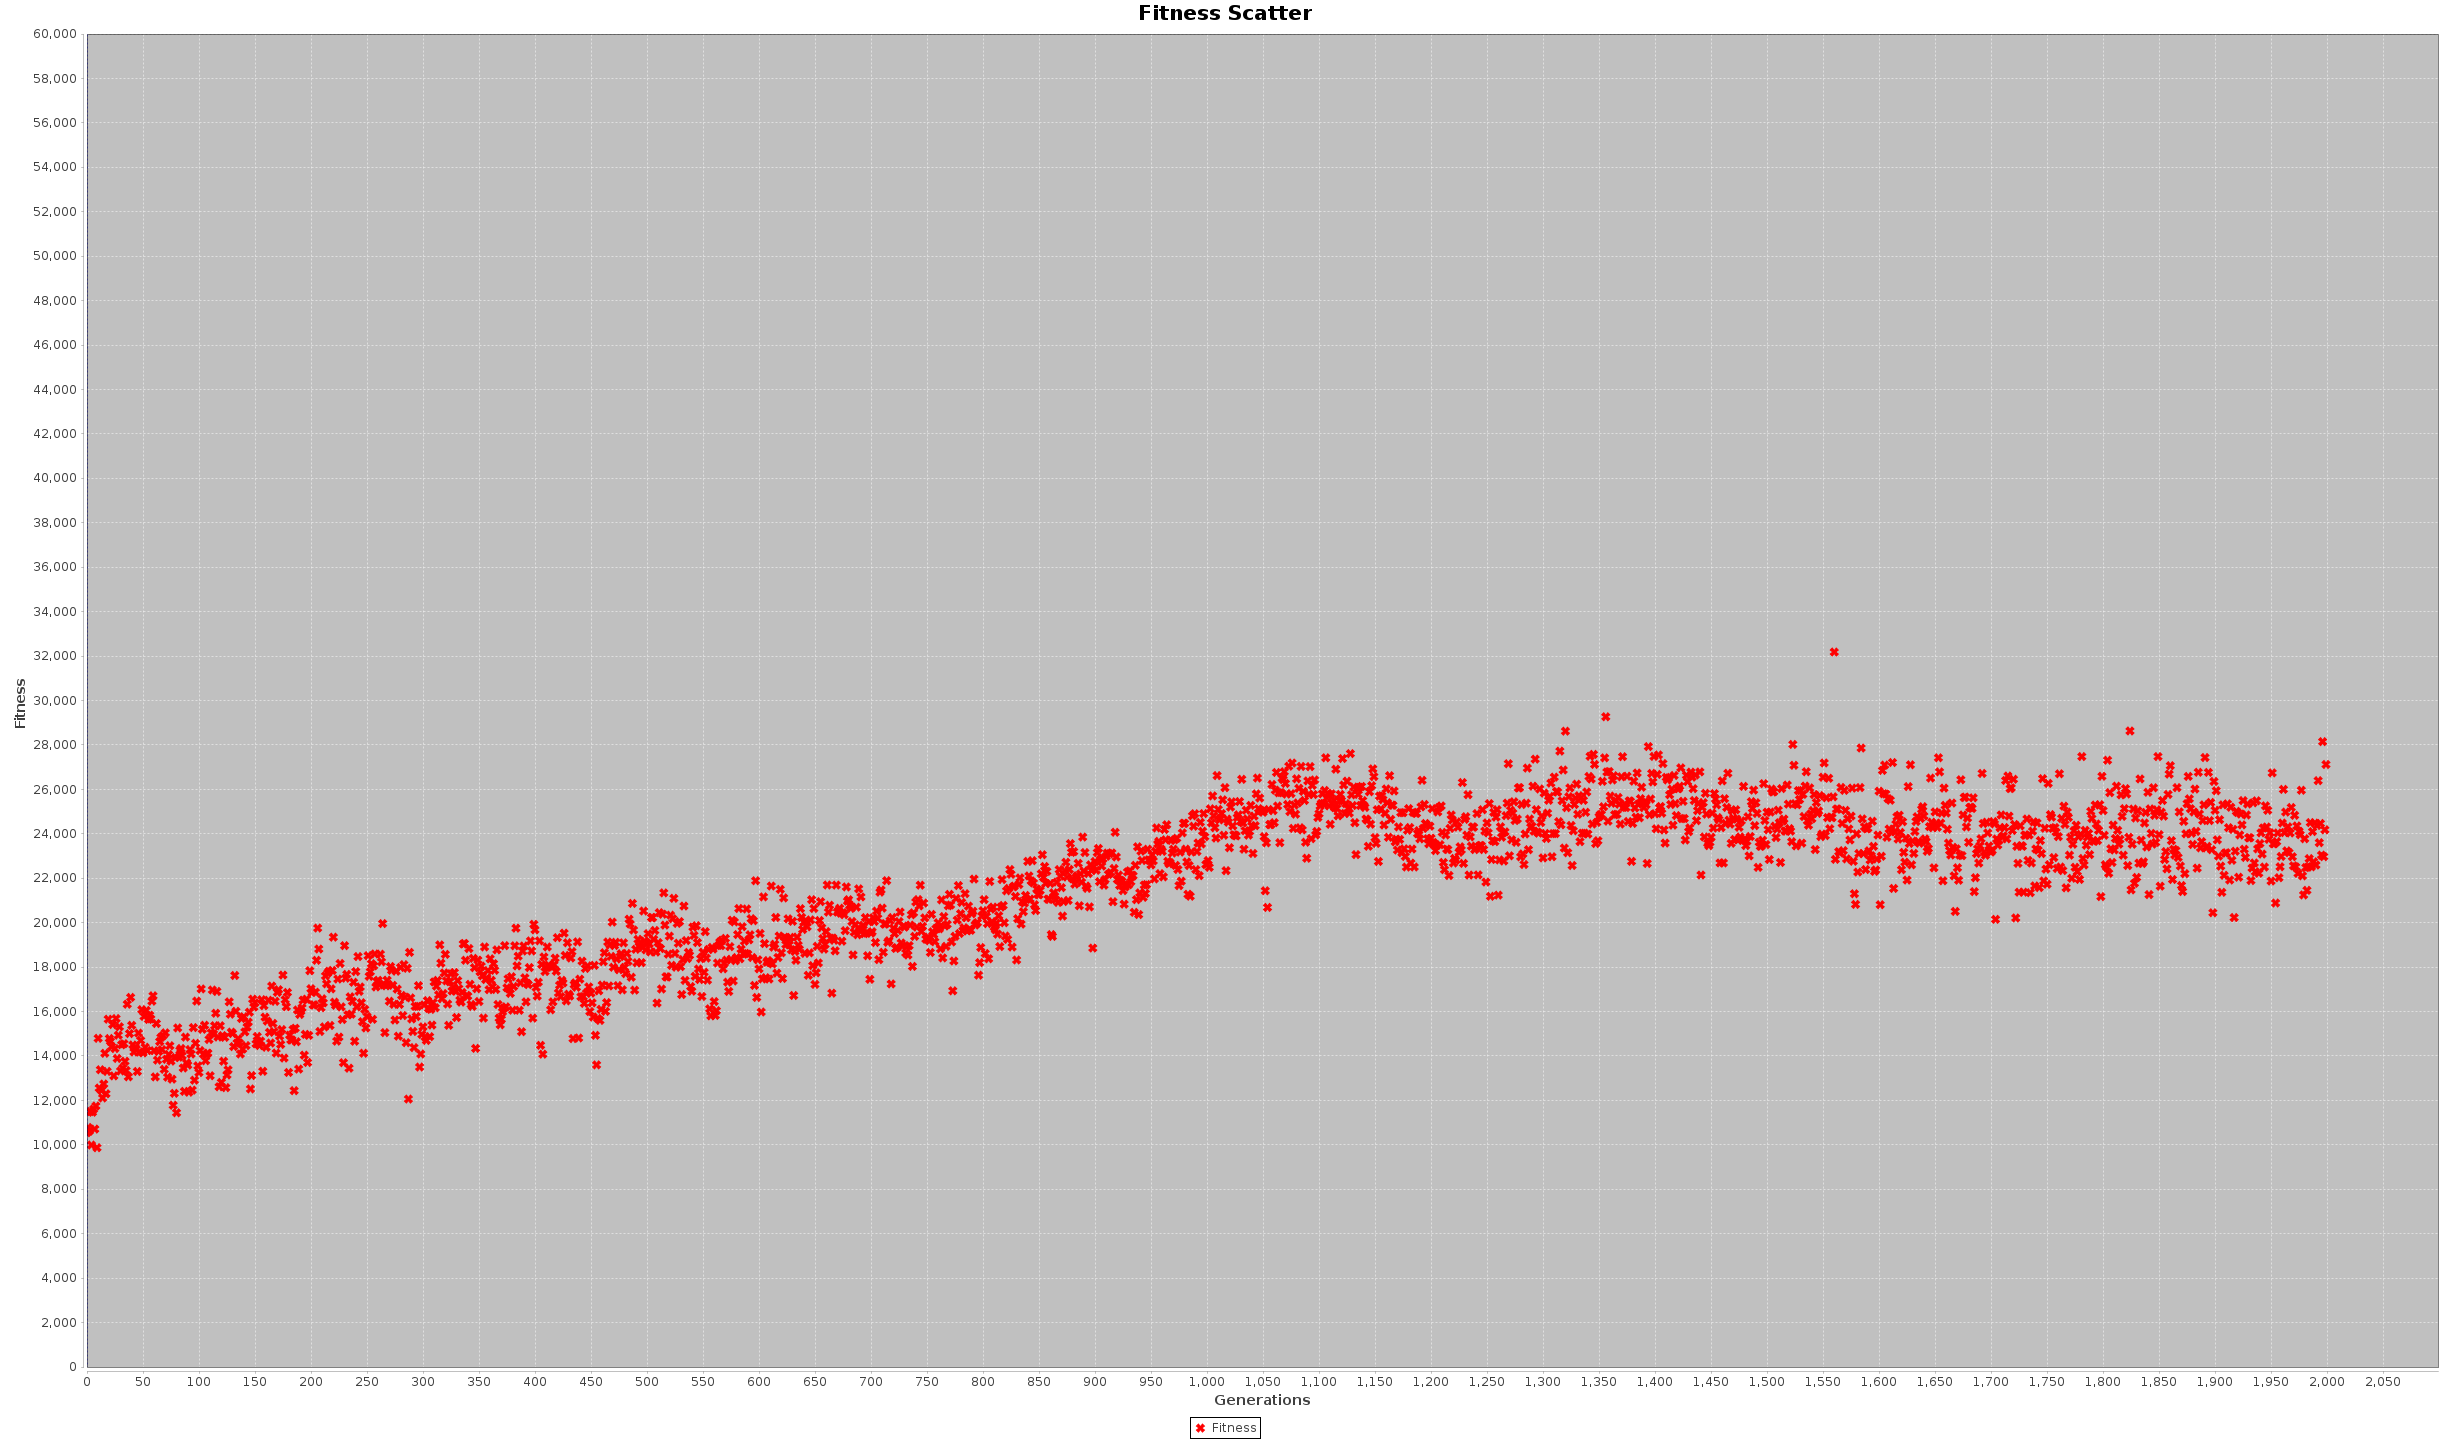
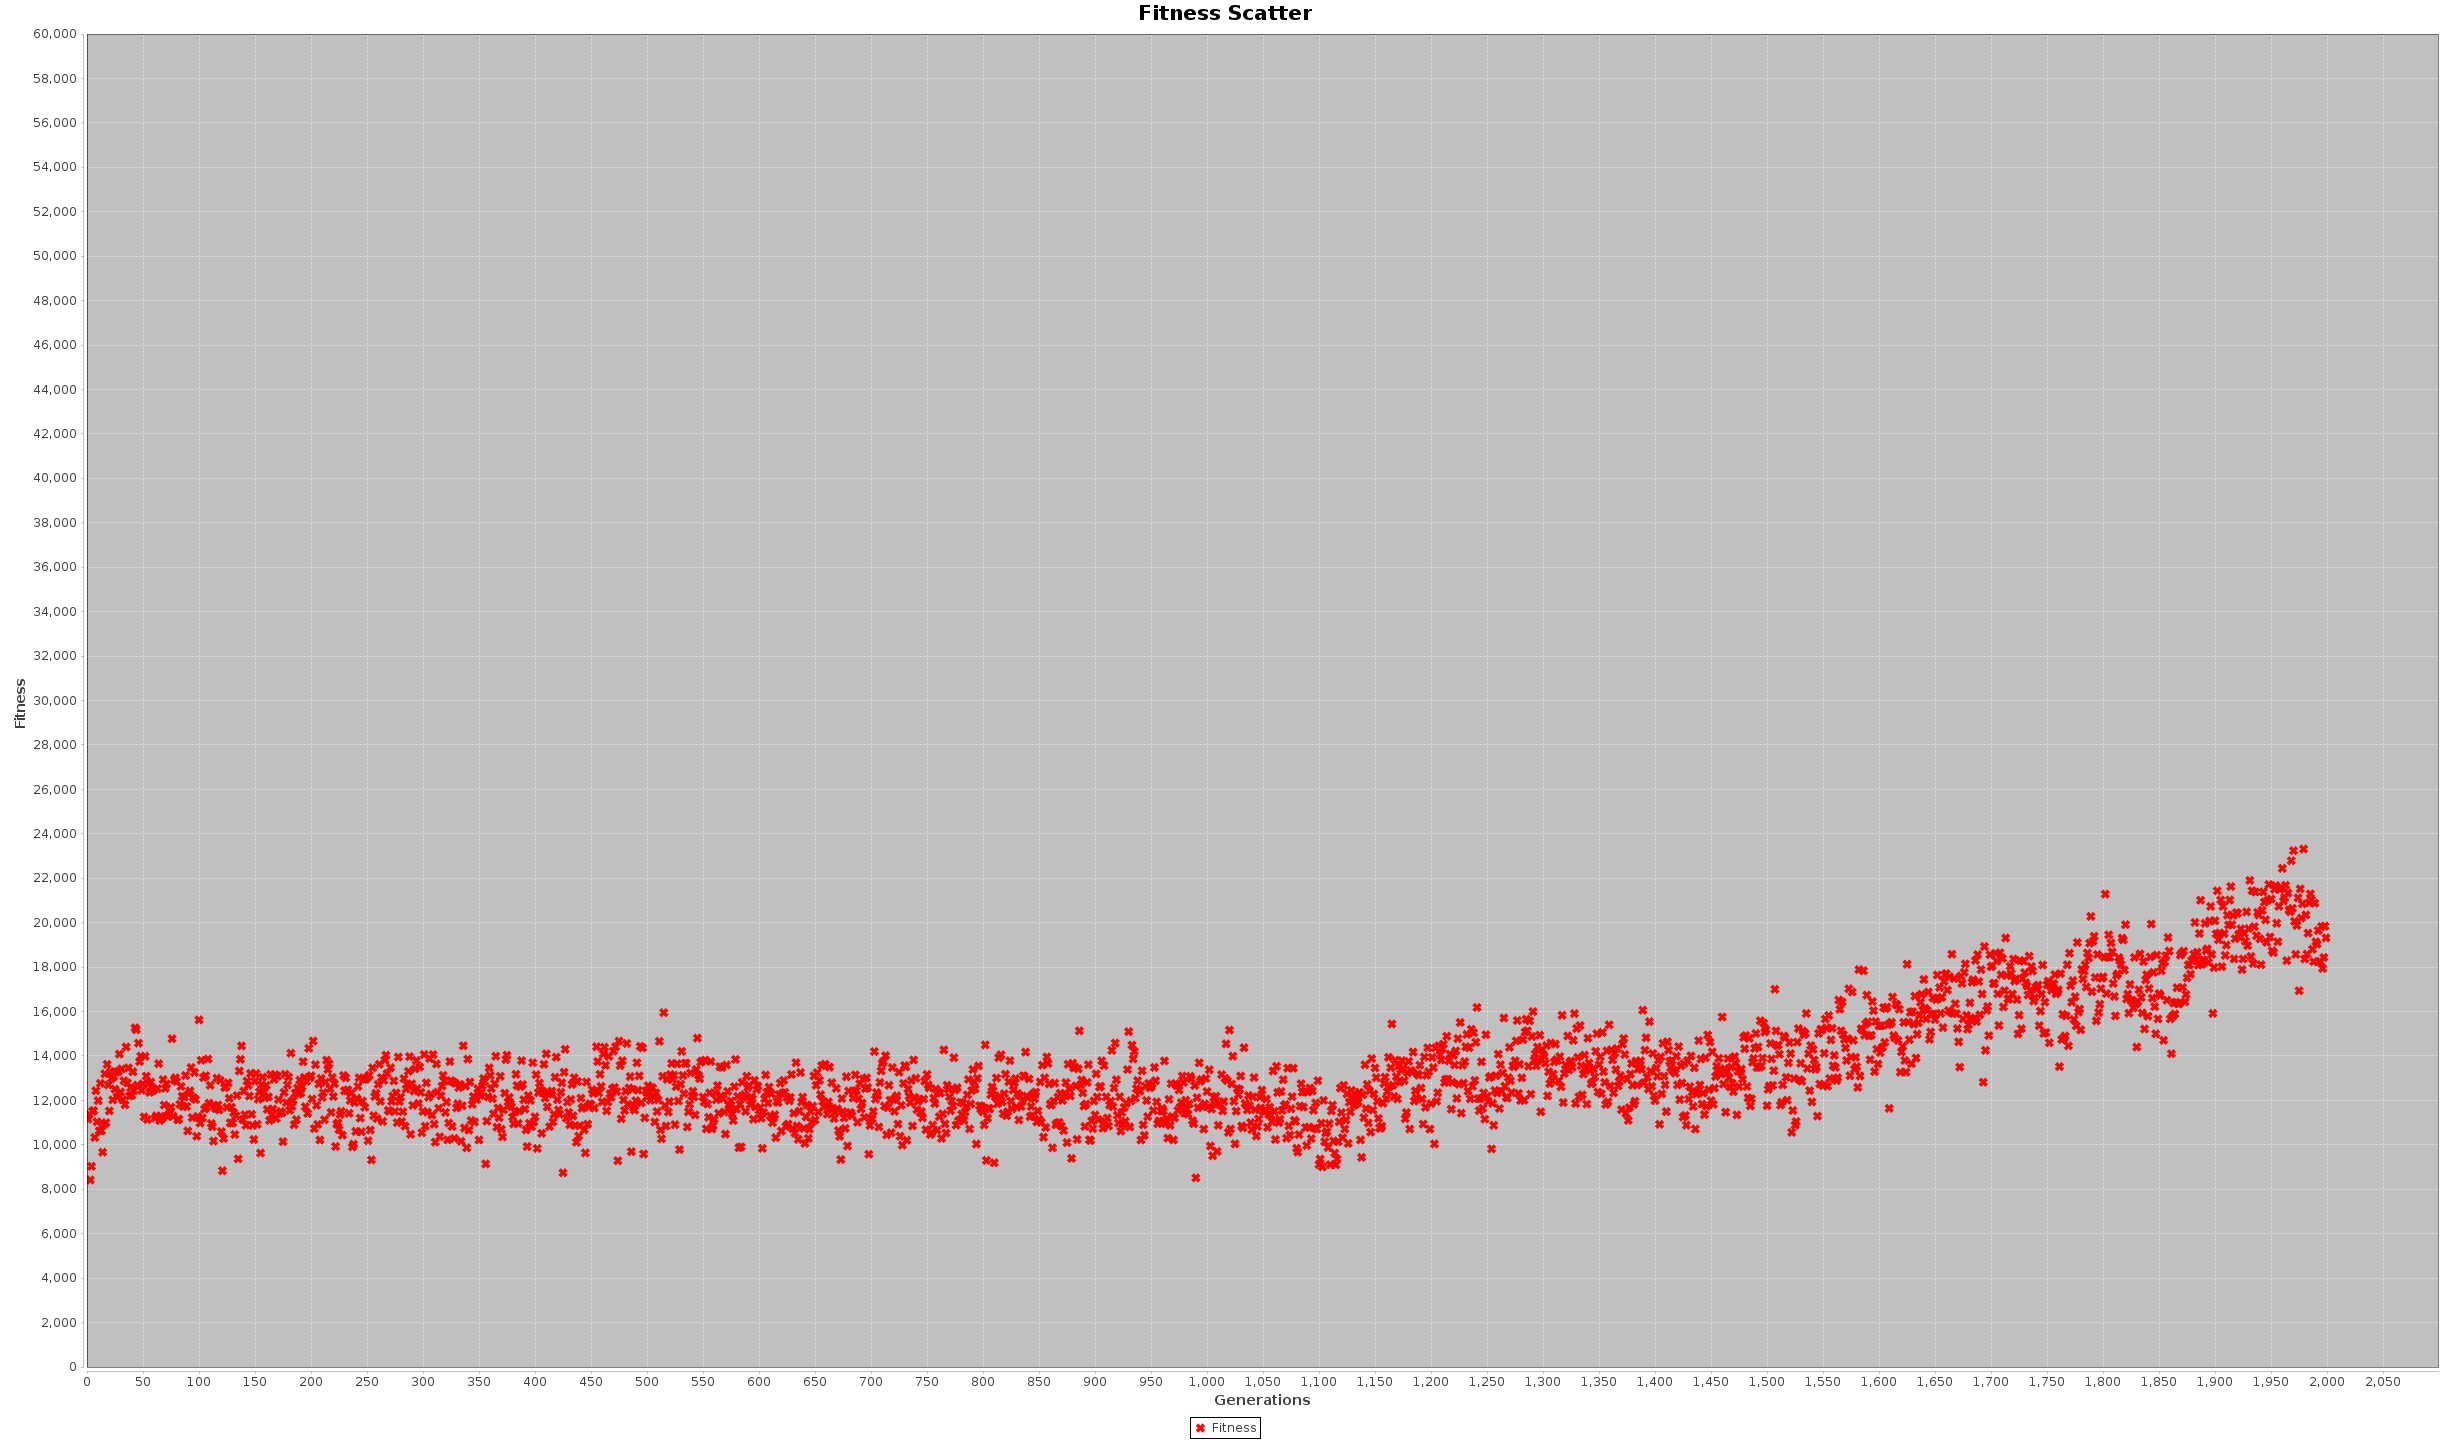
my version of gaussian added

Changed region(s): [[0.031, 0.5, 0.9616, 0.8125]]

diff --git a/src/MyWorld.java b/src/MyWorld.java
@@ -241,24 +241,23 @@ public class MyWorld extends World {
             }
         }
         
-        offspring1 = mutation(offspring1);
-        offspring2 = mutation(offspring2);
+        offspring1 = gaussMutation(offspring1, 0.01f);
+        offspring2 = gaussMutation(offspring2, 0.01f);
+        
+        /*
+        offspring1 = randomMutation(offspring1, 100000);
+        offspring2 = randomMutation(offspring2, 100000);
+        */
         
         return new Offspring(offspring1, offspring2);
     }
     
-    private float[] gaussianMutation(float[] genes) {
-        Random rand = new Random();
-        
-        return genes;
-    }
-    
-    private float[] mutation(float[] genes) {
+    private float[] randomMutation(float[] genes, int alpha) {
         
         Random rand = new Random();
  
         for(int i = 0; i < genes.length; i++) {
-            int mutate = rand.nextInt(100000);
+            int mutate = rand.nextInt(alpha);
             
             if(mutate < genes.length) {
                 genes[mutate] = rand.nextFloat();
@@ -266,8 +265,64 @@ public class MyWorld extends World {
         }
             
         return genes;
+    }
+
+    private float[] gaussMutation(float[] genes, float alpha) {
+        Random rand = new Random();
+       
+        float min = genes[0];
+        float max = genes[0];
+        
+        // obtain min and max gene values of current genes
+        for(int i = 1; i < genes.length; i++) {
+            min = Math.min(min, genes[i]);
+            max = Math.max(max, genes[i]);
+        }
+        
+        float stdv = (max - min) / 6;
+        stdv = (float) Math.max(0, stdv * Math.exp(gaussianMutation(0, 1)));
+        
+        int divider = (int) (genes.length / alpha);
+       
+        for(int i = 0; i < genes.length; i++) {
+            double mutate = rand.nextInt(divider);
+            
+            if(mutate < genes.length) {
+                genes[i] = gaussianMutation(genes[i], stdv);
+                genes[i] = clamp(genes[i], min, max);
+            }
+        }
+        
+        return genes;
     }    
-   
+
+    private float gaussianMutation(float mean, float stdv) {
+        Random rand = new Random();
+        
+        float x1 = rand.nextFloat();
+        float x2 = rand.nextFloat();
+        
+        if(x1 == 0) x1 = 1;
+        if(x2 == 0) x2 = 1;
+        
+        float y = (float) (Math.sqrt(-2.0f * Math.log(x1)) * Math.cos(2.0f * Math.PI * x2));
+        
+        return y * stdv + mean;
+    }
+    
+    private float clamp(float val, float min, float max) {
+        
+        if(val >= max) {
+            return max;
+        }
+        
+        if(val <= min) {
+            return min;
+        }
+        
+        return val;
+    }
+    
     /**
      * Prints out population status of generation.
      */

diff --git a/src/MyCreature.java b/src/MyCreature.java
@@ -74,17 +74,20 @@ public class MyCreature extends Creature {
         
         float maxActivation = output[0];
         
+        // find max
         for (int i = 1; i < output.length; i++) {
             if (output[i] > maxActivation) {
                 maxActivation = output[i];
             }
         }
 
+        // sum all activation
         float sumActivation = 0;
         for (int i = 0; i < output.length; i++) {
             sumActivation += (output[i] = (float) Math.exp(output[i] - maxActivation));
         }
 
+        // determine activation probability distribution
         for (int i = 0; i < output.length; i++) {
             output[i] /= sumActivation;
         }
@@ -99,11 +102,7 @@ public class MyCreature extends Creature {
         
         int weightIdx = 0; // pointer into weight array for the next edge weight
 
-        // first, weight the hidLayerOuput layer's context from the previous iteration
-        // then, add the bias term and pass the (weighted) percepts layer forward 
-        // into the hidden layer output.
-        
-        // first weigh previous output of hidden layer with the weights of bias 
+        // Weighs previous output of hidden layer with the weights of bias 
         // and hidden layer weight. 
         for (int i = 0; i < hiddenLayOuts.length; i++) {
             hiddenLayOuts[i] *= chromosome[weightIdx++];      // context from previous iteration
@@ -114,7 +113,7 @@ public class MyCreature extends Creature {
             }
         }
 
-        // activate the hidden layer using sigmoid activation function
+        // hidden layer activation
         for (int i = 0; i < hiddenLayOuts.length; i++) {
             hiddenLayOuts[i] = tanActivation(hiddenLayOuts[i]);
         }
@@ -129,10 +128,10 @@ public class MyCreature extends Creature {
         }
         
         // use softmax to determine outputs for output layer.
-        //output = softmaxActivation(output);
-        for (int i = 0; i < output.length; i++) {
-            output[i] = sigmoidActivation(output[i]);
-        }
+        output = softmaxActivation(output);
+        /*for (int i = 0; i < output.length; i++) {
+            output[i] = tanActivation(output[i]);
+        }*/
         // the resulting output is interpreted as the probability of performing each action --- return this!
         return output;
     }
